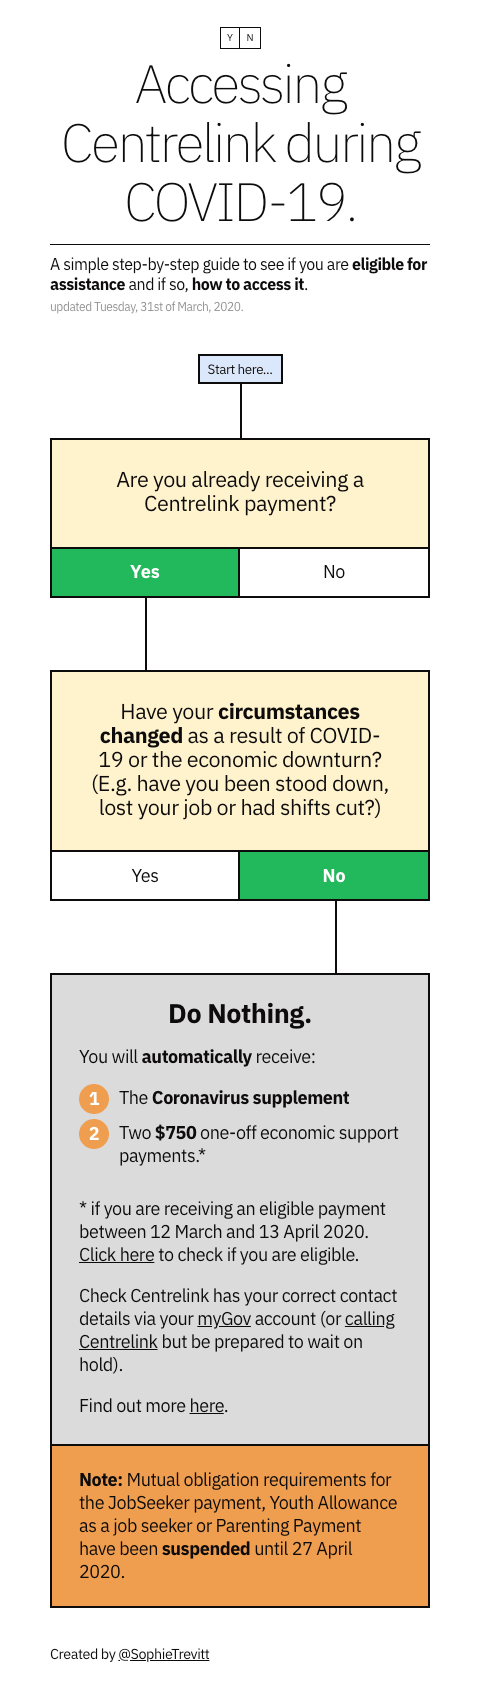
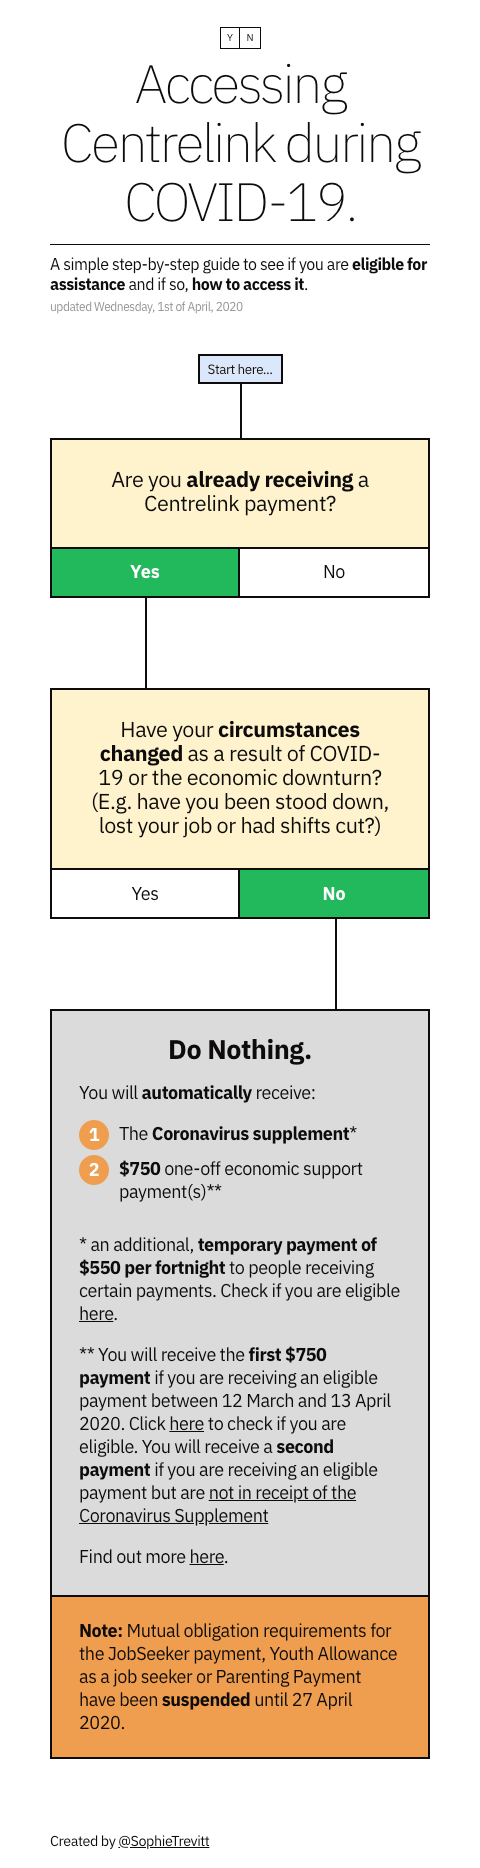
more updates

Changed region(s): [[0.0938, 0.0, 0.9062, 0.9899]]

diff --git a/index.html b/index.html
@@ -9,12 +9,12 @@
 	<meta name="twitter:card" content="summary_large_image">
     <meta name="twitter:creator" content="@SophieTrevitt">
 	<meta name="twitter:title" content="Accessing Centrelink during COVID-19">
-	<meta name="twitter:description" content="A simple step-by-step guide.">
+	<meta name="twitter:description" content="A simple step-by-step guide to see if you are eligible for assistance, and if so, how to access it.">
     <meta name="twitter:image:src" content="https://canigetcentrelink.com.au/share.png">
 	<meta property="og:type" content="website">
     <meta property="og:url" content="https://canigetcentrelink.com.au">
 	<meta property="og:title" content="Accessing Centrelink during COVID-19">
-	<meta property="og:description" content="A simple step-by-step guide.">
+	<meta property="og:description" content="A simple step-by-step guide to see if you are eligible for assistance, and if so, how to access it.">
     <meta property="og:image" content="https://canigetcentrelink.com.au/share.png">
     <link href="https://fonts.googleapis.com/css2?family=IBM+Plex+Sans:wght@200;400;700&display=hide" rel="stylesheet">
     <script src="https://code.jquery.com/jquery-3.4.1.min.js" integrity="sha256-CSXorXvZcTkaix6Yvo6HppcZGetbYMGWSFlBw8HfCJo=" crossorigin="anonymous"></script>
@@ -109,7 +109,7 @@ font-size:1.2rem}
 
 .start,
 [data-id="s"],
-[data-show="true"] {
+[data-show="yes"] {
 display:block}
 
 .start:before,
@@ -239,7 +239,7 @@ padding:1.25rem 1.5rem;
 border:2px solid #0D0B0B;
 background:#DBDBDB}
 
-[data-show="true"]{
+[data-show="yes"]{
 display:block}
 
 .results h3 {
@@ -294,24 +294,28 @@ display:none;
 margin-bottom:12rem;
 text-align:center}
 
-[data-result="true"] #finish  {
+[data-result="yes"] #finish  {
 display:block}
 
 a.download  {
 margin:.5rem 0;
-display:block;
+display:none;
 border:2px solid #0D0B0B;
 padding:8px;
-font-size:.75rem;
+font-size:12px;
 text-decoration:none;
+text-transform:uppercase;
 transition:background .25s}
 
-.ie11 .download {
+.ie11 .download  {
 display:none}
+
+[data-end="yes"] .download {
+display:block}
 
 a.download:hover {
 color:#fff;
-background:#0D0B0B}
+background:#999}
 
 .reset {
 font-size:.75rem}
@@ -374,11 +378,11 @@ margin-bottom:0}
 
             <div class="icon"><span>Y</span><span>N</span></div>
 
-            <h1>Accessing Centrelink during COVID-19.</h1>
+            <h1>Accessing Centrelink during COVID-19</h1>
 
-            <p>A simple step-by-step guide to see if you are <b>eligible for assistance</b> and if so, <b>how to access it</b>.</p>
+            <p>A simple step-by-step guide to see if you are <b>eligible for assistance</b>, and if so, <b>how to access it</b>.</p>
 
-            <p class="updated">updated Tuesday, 31st of March, 2020.</p>
+            <p class="updated">updated Wednesday, 1st of April, 2020</p>
 
         </header>
 
@@ -389,7 +393,7 @@ margin-bottom:0}
             </div>
 
             <div class="q" data-id="s">
-                <p>Are you already receiving a Centrelink payment?</p>
+                <p>Are you <b>already receiving</b> a Centrelink payment?</p>
                 <p class="opts"><a>Yes</a><a>No</a></p>
             </div>  
 
@@ -399,7 +403,7 @@ margin-bottom:0}
             </div> 
 
             <div class="q" data-id="s-n-y">
-                <p>Is your myGov account linked* to Medicare or the Australian Taxation Office (ATO)? <a class="note">* Check by logging into your myGov account and clicking on "Services" in the dashbar to see which services have been linked.</a></p>
+                <p>Is your myGov account linked* to Medicare or the Australian Taxation Office (ATO)? <span class="note">* Check by logging into your <a href="https://my.gov.au/">myGov</a> account and clicking on "Services" in the dashbar to see which services have been linked.</span></p>
                 <p class="opts"><a>Yes</a><a>No</a></p>
             </div> 
 
@@ -430,11 +434,11 @@ margin-bottom:0}
 
                 <p class="msg"><b>Note</b>: If you have <b>lost your job</b> or been <b>stood down</b> on or after <b>1 March 2020</b> your employer may be eligible for the "JobKeeper" payment. This is a government payment to allow employers to keep on employees and pay them at least <b>$1500</b> per fortnight. Speak to your employer about this option.<br><br> If you are <b>self-employed</b> you may also be eligible. <a href="https://www.ato.gov.au/general/gen/JobKeeper-payment/?fbclid=IwAR1Rk2A-vSqMI2E5EVqNqLU8GE3t-WF2Qb7n1PHhgChOn5lkHOu0UPGwg4k">Find out more here</a>. In the meantime, <b>you may still be eligible for a Centrelink payment</b>.</p>
 
-                <p>Are you already receiving a JobSeeker (formerly Newstart) or a Youth Allowance job seeker payment?</p>
+                <p>Are you <b>already receiving</b> a JobSeeker (formerly Newstart) or a Youth Allowance job seeker payment?</p>
                 <p class="opts"><a>Yes</a><a>No</a></p>
             </div> 
 
-            <div class="results" data-id="s-n-y-y-y-y">
+            <div class="results" data-id="s-n-y-y-y-y" data-end="yes">
 
                 <h3>Sounds like you may be eligible for a job seeker payment.</h3>
 
@@ -461,8 +465,10 @@ margin-bottom:0}
             </div> 
 
             <div class="results" data-id="s-n-y-y-y-n">
+
                 <p>You may be eligible for <b>another type of Centrelink payment</b>. Go to the <a href="https://www.centrelink.gov.au/custsite_pfe/pymtfinderest/paymentFinderEstimatorPage.jsf?wec-appid=pymtfinderest">Centrelink website</a> to see what support you may be eligible for.<br><br> 
-                You can also check out the fact sheets <a href="http://ejaustralia.org.au/self-help/">here</a> or call your <a href="http://ejaustralia.org.au/legal-help-centrelink/">local community legal centre</a> for more advice. 
+                You can also check out the fact sheets <a href="http://ejaustralia.org.au/self-help/">here</a> or call your <a href="http://ejaustralia.org.au/legal-help-centrelink/">local community legal centre</a> for more advice.</p> 
+
             </div>
 
             <div class="results" data-id="s-n-y-n">
@@ -480,20 +486,22 @@ margin-bottom:0}
 
             </div>
 
-            <div class="results" data-id="s-y-y-y">
+            <div class="results" data-id="s-y-y-y" data-end="yes">
 
                 <h3>Do Nothing.</h3>
 
                 <p>You will <b>automatically</b> receive:</p>
 
                 <ol>
-                    <li>The <b>Coronavirus supplement</b></li>
-                    <li>Two <b>$750</b> one-off economic support payments.*</li>
+                    <li>The <b>Coronavirus supplement</b>*</li>
+                    <li><b>$750</b> one-off economic support payment(s)**</li>
                 </ol>
 
-                <p>* if you are receiving an eligible payment between 12 March and 13 April 2020. <a href="https://www.servicesaustralia.gov.au/individuals/news/750-one-economic-support-payment">Click here</a> to check if you are eligible.</p>
+                <p>* an additional, <b>temporary payment of $550 per fortnight</b> to people receiving certain payments. Check if you are eligible <a href="https://www.dss.gov.au/about-the-department/coronavirus-covid-19-information-and-support#cor">here</a>.</p> 
 
-                <p>Check Centrelink has your correct contact details via your <a href="https://my.gov.au">myGov account</a> (or <a href="https://www.servicesaustralia.gov.au/individuals/contact-us/phone-us#centrelink">calling Centrelink</a> but be prepared to wait on hold).</p>
+                <p>** You will receive the <b>first $750 payment</b> if you are receiving an eligible payment between 12 March and 13 April 2020. Click <a href="https://www.dss.gov.au/about-the-department/coronavirus-covid-19-information-and-support#fir">here</a> to check if you are eligible. You will receive a <b>second payment</b> if you are receiving an eligible payment but are <a href="https://www.dss.gov.au/about-the-department/coronavirus-covid-19-information-and-support#sec)">not in receipt of the Coronavirus Supplement</a></p>
+
+                <p>Check Centrelink has your correct contact details via your <a href="https://my.gov.au">myGov</a> account (or <a href="https://www.servicesaustralia.gov.au/individuals/contact-us/phone-us#centrelink">calling Centrelink</a> but be prepared to wait on hold).</p>
 
                 <p>Find out more <a href="http://ejaustralia.org.au/self-help/">here</a>.</p>
 
@@ -505,7 +513,7 @@ margin-bottom:0}
 
             </div> 
 
-            <div class="results" data-id="s-y-y-n">
+            <div class="results" data-id="s-y-y-n" data-end="yes">
 
                 <h3>Register your intention to Claim</h3>
 
@@ -527,20 +535,20 @@ margin-bottom:0}
                 
             </div> 
 
-            <div class="results" data-id="s-y-n">
+            <div class="results" data-id="s-y-n" data-end="yes">
 
                 <h3>Do Nothing.</h3>
 
                 <p>You will <b>automatically</b> receive:</p>
 
                 <ol>
-                    <li>The <b>Coronavirus supplement</b></li>
-                    <li>Two <b>$750</b> one-off economic support payments.*</li>
+                    <li>The <b>Coronavirus supplement</b>*</li>
+                    <li><b>$750</b> one-off economic support payment(s)**</li>
                 </ol>
 
-                <p>* if you are receiving an eligible payment between 12 March and 13 April 2020. <a href="https://www.servicesaustralia.gov.au/individuals/news/750-one-economic-support-payment">Click here</a> to check if you are eligible.</p>
+                <p>* an additional, <b>temporary payment of $550 per fortnight</b> to people receiving certain payments. Check if you are eligible <a href="https://www.dss.gov.au/about-the-department/coronavirus-covid-19-information-and-support#cor">here</a>.</p> 
 
-                <p>Check Centrelink has your correct contact details via your <a href="https://my.gov.au">myGov</a> account (or <a href="https://www.servicesaustralia.gov.au/individuals/contact-us/phone-us#centrelink">calling Centrelink</a> but be prepared to wait on hold).</p>
+                <p>** You will receive the <b>first $750 payment</b> if you are receiving an eligible payment between 12 March and 13 April 2020. Click <a href="https://www.dss.gov.au/about-the-department/coronavirus-covid-19-information-and-support#fir">here</a> to check if you are eligible. You will receive a <b>second payment</b> if you are receiving an eligible payment but are <a href="https://www.dss.gov.au/about-the-department/coronavirus-covid-19-information-and-support#sec)">not in receipt of the Coronavirus Supplement</a></p>
 
                 <p>Find out more <a href="http://ejaustralia.org.au/self-help/">here</a>.</p>
 
@@ -562,10 +570,12 @@ margin-bottom:0}
         </main>
 
         <footer>
+            
             <p>Go to <a href="https://www.servicesaustralia.gov.au/individuals/centrelink">Centrelink</a> →<br>
             More help & info available at <a href="http://ejaustralia.org.au/self-help/">Economic Justice Australia</a> →<br>
             Latest COVID-19 info from the <a href="https://www.health.gov.au/news/health-alerts/novel-coronavirus-2019-ncov-health-alert">Department of Health</a> →</p>
             <p>Created by <a href="https://twitter.com/SophieTrevitt">@SophieTrevitt</a></p>
+
         </footer>
 
     </div>
@@ -574,9 +584,6 @@ margin-bottom:0}
 
 'use strict';
 
-/* IE11 */
-
-
 var $top = $('html, body'),
     $body = document.querySelector('body'),
     $start = document.querySelector('[data-id="s"]'),
@@ -584,6 +591,7 @@ var $top = $('html, body'),
     $download = document.querySelector('.download'),
     isIE11 = false
 
+/* IE11 */
 if (window.NodeList && !NodeList.prototype.forEach){
     NodeList.prototype.forEach = Array.prototype.forEach;
     isIE11 = true;
@@ -614,14 +622,20 @@ document
                 $next = document.querySelector('[data-id="'+next+'"]')
 
             // SHOW
-            $next.setAttribute('data-show',true)
+            $next.setAttribute('data-show','yes')
 
             if ($next.getAttribute('class') == 'results'){
-                $download.setAttribute('href','charts/'+next+'.png')
-                $body.setAttribute('data-result',true);
+
+                $body.setAttribute('data-result','yes');
+
+                if ($next.getAttribute('data-end')=='yes'){
+                    $download.setAttribute('href','charts/'+next+'.png');
+                    $body.setAttribute('data-end','yes');
+                }
             }
             else {
-                $body.removeAttribute('data-result')
+                $body.removeAttribute('data-result');
+                $body.removeAttribute('data-end')
             } 
 
             //CLEAN UP NOT CURRENT!
@@ -639,7 +653,7 @@ function cleanOtherOptions(next){
 
     //check if part of current tree
     document
-        .querySelectorAll('[data-show="true"]')
+        .querySelectorAll('[data-show="yes"]')
         .forEach(function ($node,i){
             if (next.indexOf($node.getAttribute('data-id'))<0){
                 $node.removeAttribute('data-show');
@@ -653,13 +667,14 @@ document
     .addEventListener('click', function(e){
 
         document
-            .querySelectorAll('[data-show="true"]')
+            .querySelectorAll('[data-show="yes"]')
             .forEach(function ($node,i){
                 $node.removeAttribute('data-show');
                 $node.className = $node.className.replace(/\s(n|y)/gi,'')
         })
 
         $body.removeAttribute('data-result');
+        $body.removeAttribute('data-end');
         $start.setAttribute('class','q');
 
         $top.animate({ 
